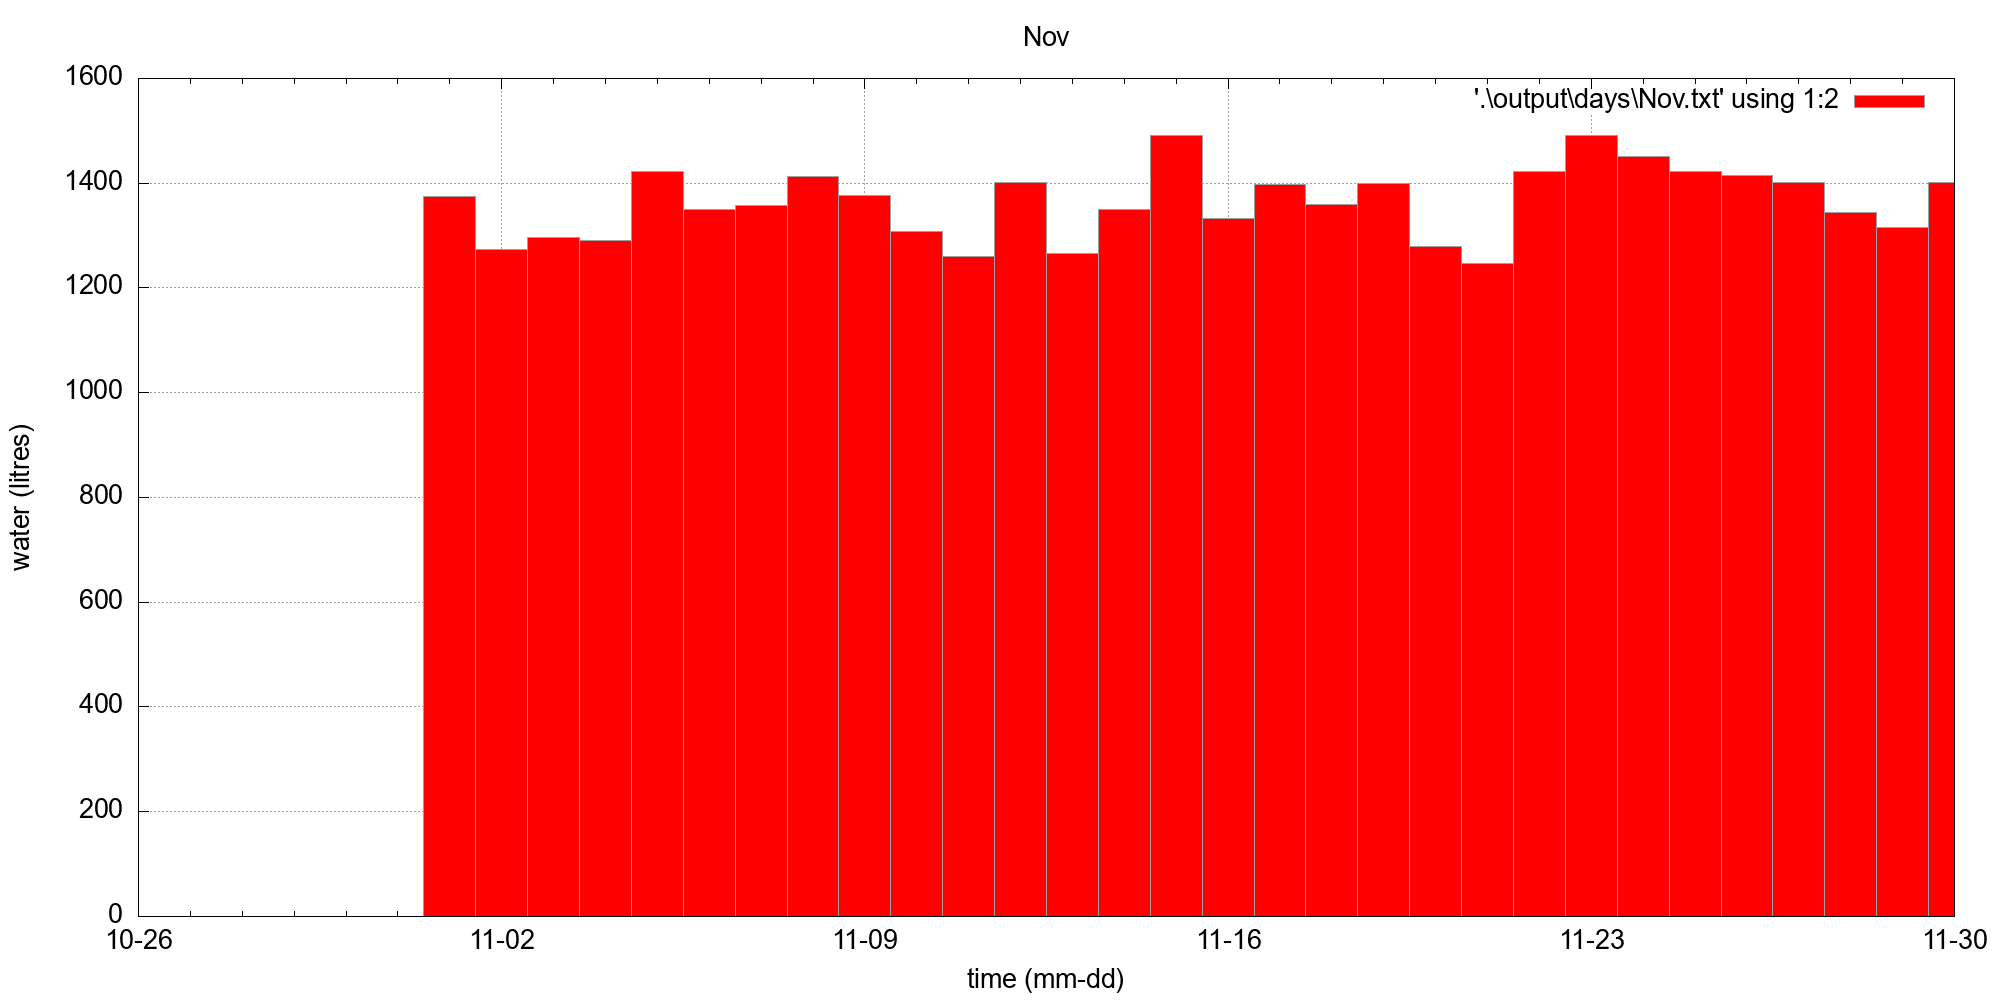
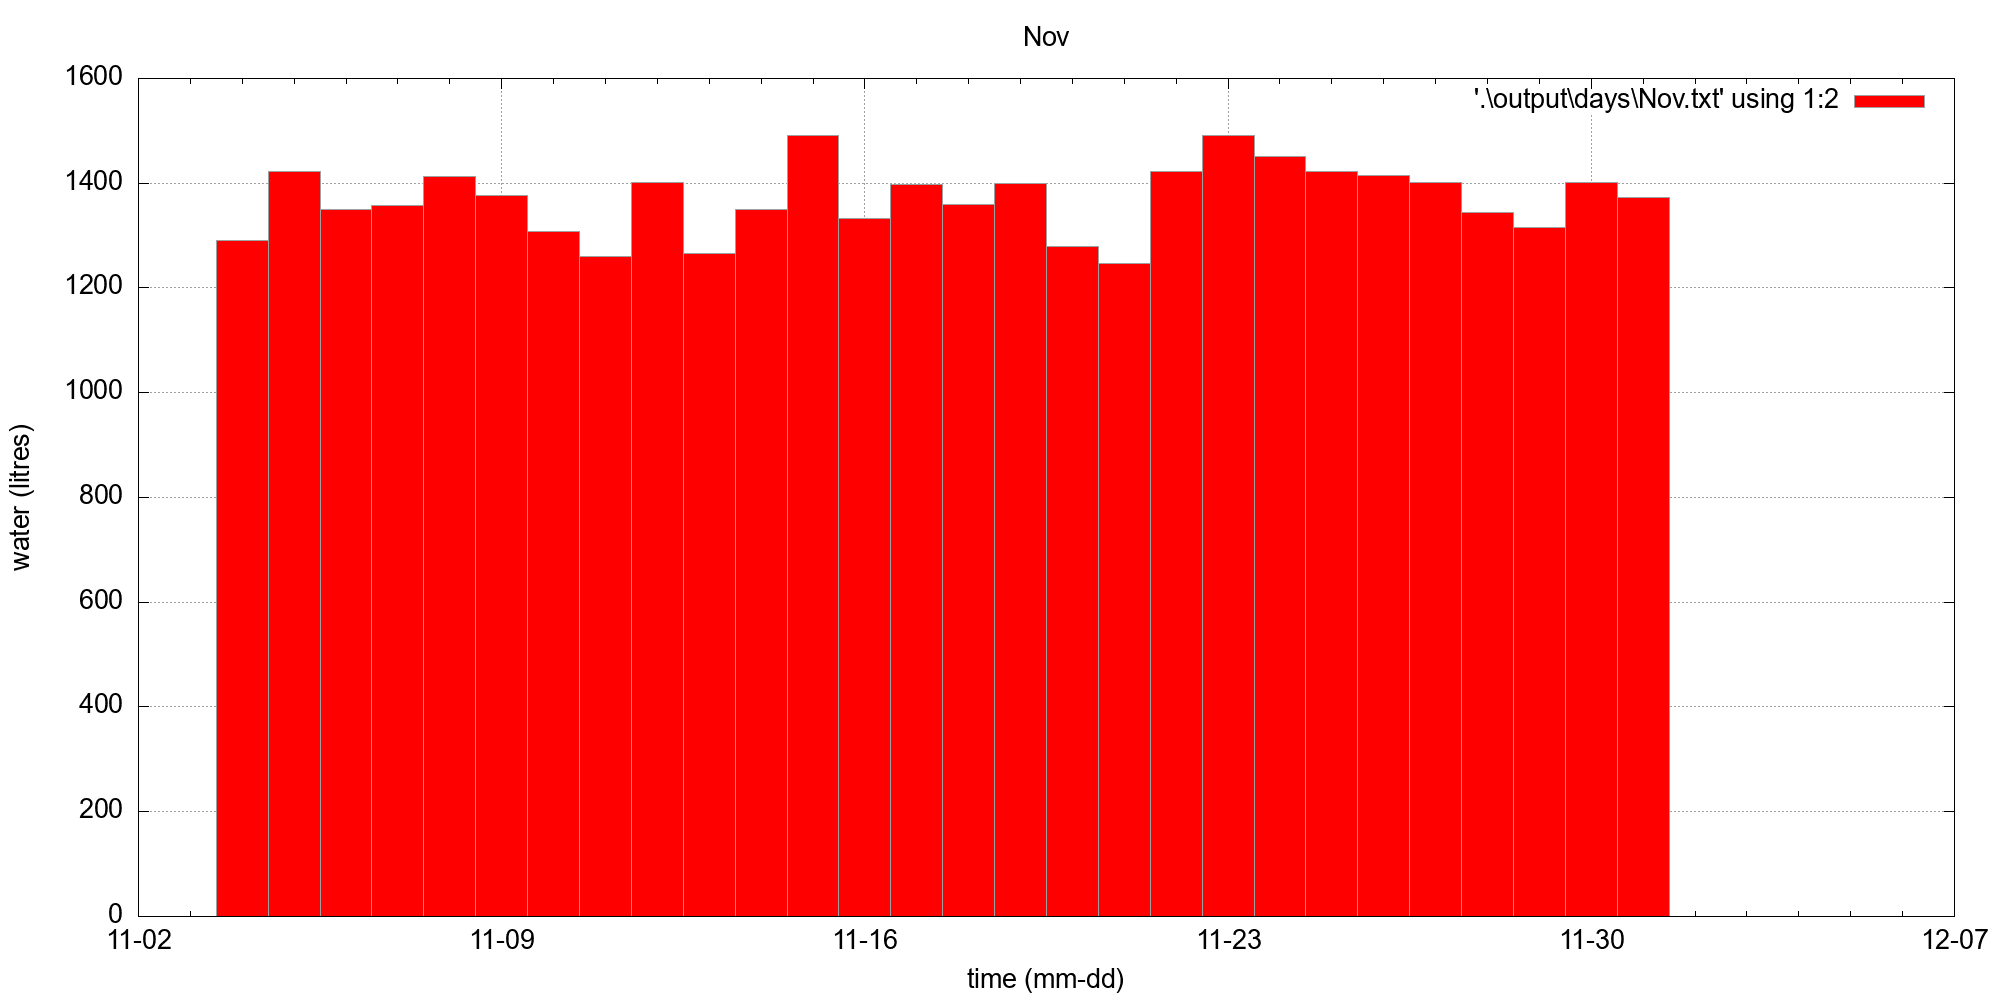
Moved output array to main function. Will help to visualize when the array is used and changed

diff --git a/main.c b/main.c
@@ -33,32 +33,31 @@ typedef struct {
         char time_fmt[10];
         char time_unit[10];
     } graph;
-} data;
+} output_data;
 
-data output[4] = {
-    {0, 0, SEC_PER_HOUR, "", "./output/hours/hours.txt", "hours", "\"\%H:\%M\"", "HH:MM"},
-    {0, 0, SEC_PER_DAY, "", "./output/days/days.txt", "days", "\"\%m-\%d\"", "mm-dd"},
-    {0, 0, SEC_PER_WEEK, "", "./output/weeks.txt", "weeks", "\"\%m-\%d\"", "mm-dd"},
-    {0, 0, SEC_PER_MONTH, "", "./output/month.txt", "month", "\"\%Y-\%m\"", "yyyy-mm"}
-};
-
-char month_names[12][3] = {"Jan", "Feb", "Mar", "Apr", "May", "Jun", "Jul", "Aug", "Sep", "Oct", "Nov", "Dec"};
+const char month_names[12][3] = {"Jan", "Feb", "Mar", "Apr", "May", "Jun", "Jul", "Aug", "Sep", "Oct", "Nov", "Dec"};
 
 int read_config(int* alarm_time);
 int get_length(FILE* fp);
 int get_data(FILE* fp, measurement measurements[], int length);
-void calc_sec_in_month(long int time_unix);
-void calc_start_of_time(measurement first, int results[3]);
+void calc_sec_in_month(long int time_unix, output_data *output_m);
+void calc_start_of_time(measurement first, output_data output[], int results[3]);
 int check_leap_year(int year);
-void output_to_files(measurement measurements[], int length, int start_times[]);
-void create_graph(int output_num);
-int water_per_x(measurement measurements[], int length, int output_num, long graph_start, int correct_for_dst);
+void output_to_files(measurement measurements[], int length, output_data output[], int start_times[]);
+void create_graph(output_data output[], int output_num);
+int water_per_x(measurement measurements[], int length, int output_num, long graph_start, int correct_for_dst, output_data output[]);
 int time_since_zero(measurement measurements[], int length, int alarm_time);
 void print_alarm(int time, int alarm_time);
 int format_time(long time_unix, char time_UTC[], struct tm *time_struct);
 int check_dst(long time_unix);
 
 int main(void) {
+    output_data output[4] = {
+        {0, 0, SEC_PER_HOUR, "", "", "hours", "\"\%H:\%M\"", "HH:MM"},
+        {0, 0, SEC_PER_DAY, "", "", "days", "\"\%m-\%d\"", "mm-dd"},
+        {0, 0, SEC_PER_WEEK, "", "./output/weeks.txt", "weeks", "\"\%m-\%d\"", "mm-dd"},
+        {0, 0, SEC_PER_MONTH, "", "./output/month.txt", "month", "\"\%Y-\%m\"", "yyyy-mm"}
+    };
     //Reading configuration
     int alarm_time;
     int start_times[4];
@@ -74,14 +73,15 @@ int main(void) {
     length = get_length(fp); // Finder linjeantal i fil
     measurement measurements[length]; // Laver en array til målinger 
     get_data(fp, measurements, length);
-    calc_start_of_time(measurements[0], start_times);
-    output_to_files(measurements, length, start_times);
+    calc_start_of_time(measurements[0], output, start_times);
+    output_to_files(measurements, length, output, start_times);
     time_since_zero(measurements, length, alarm_time);
     fclose(fp);
+    printf("Goodbye.");
     return 0;
 }
 
-void calc_start_of_time(measurement first, int results[4]) { // Beregner, hvor lang tid, der går, indtil ny hel time, dag og uge
+void calc_start_of_time(measurement first, output_data output[], int results[4]) { // Beregner, hvor lang tid, der går, indtil ny hel time, dag og uge
     printf("calc_start_of_time running ...\n");
     int m, h, d, w, mon;
     char time_UTC[26];
@@ -102,7 +102,7 @@ void calc_start_of_time(measurement first, int results[4]) { // Beregner, hvor l
     if(w < 0) {
         w += SEC_PER_WEEK;
     }
-    calc_sec_in_month(first.time_unix);
+    calc_sec_in_month(first.time_unix, &output[3]);
     mon = (output[3].calc.sec_per_unit - time_struct.tm_mday + 1) % output[3].calc.sec_per_unit * SEC_PER_DAY * output[3].calc.sec_per_unit - time_struct.tm_sec - time_struct.tm_min * SEC_PER_MIN - time_struct.tm_hour * SEC_PER_HOUR;
     if(mon < 0) {
         mon += output[3].calc.sec_per_unit;
@@ -164,14 +164,14 @@ int get_data(FILE* fp, measurement measurements[], int length) { //Indlæser dat
     } while (!feof(fp));
 }
 
-void output_to_files(measurement measurements[], int length, int start_times[]) { // Sender output til filer (hours.txt, days.txt etc.)
+void output_to_files(measurement measurements[], int length, output_data output[], int start_times[]) { // Sender output til filer (hours.txt, days.txt etc.)
     printf("output_to_files running ...\n");
     for(int i = 0; i < 4; i++) { // FOR HOURS, DAYS, WEEKS, MONTH
         output[i].calc.time_unix = measurements[0].time_unix + start_times[i];
         long graph_start;
         int fail;
         do {
-            calc_sec_in_month(output[i].calc.time_unix);
+            calc_sec_in_month(output[i].calc.time_unix, &output[3]);
             int is_dst_start = check_dst(output[i].calc.time_unix);
             int correct_for_dst = 0;
             if(i == 0) {
@@ -198,23 +198,23 @@ void output_to_files(measurement measurements[], int length, int start_times[]) 
                     correct_for_dst = is_dst_start - is_dst_now; // Will give 1 if DST switched on, -1 if DST switched off
                     is_dst_start = is_dst_now;
                 }
-                if(i) { // 
+                if(i) { 
                     output[i].calc.time_unix += correct_for_dst * SEC_PER_HOUR;
                     correct_for_dst = 0;
                 }
-                fail = water_per_x(measurements, length, i, graph_start, correct_for_dst);
+                fail = water_per_x(measurements, length, i, graph_start, correct_for_dst, output);
                 if(!fail) {
                     fprintf(outp, "%s; %d\n", output[i].txt.timestamp, output[i].calc.water_diff);
                     output[i].calc.time_unix += output[i].calc.sec_per_unit;
                 }
             } while (!fail);
-            create_graph(i);
+            create_graph(output, i);
             fclose(outp);
         } while(i < 2 && fail == 2);
-    }   
+    }
 }
 
-void create_graph(int output_num) {
+void create_graph(output_data output[], int output_num) {
     const int num_commands = 9;
     char* commandsForGnuplot[] = {
         "set datafile separator \";\"",
@@ -246,7 +246,7 @@ void create_graph(int output_num) {
     fprintf(gnuplotPipe, "plot '%s' using 1:2 with boxes linecolor rgb \"red\" \n", output[output_num].txt.file_path);
 }
 
-void calc_sec_in_month(long int time_unix) {
+void calc_sec_in_month(long int time_unix, output_data *output_m) {
     int days_in_each_month[12] = {31, 28, 31, 30, 31, 30, 31, 31, 30, 31, 30, 31};
     struct tm time_struct;
     char irr_time[26];
@@ -255,7 +255,7 @@ void calc_sec_in_month(long int time_unix) {
     if(time_struct.tm_mon == 1 && check_leap_year(time_struct.tm_year + 1900)) {
         days_in_month = 29; // Kontrollerer for skudår
     }
-    output[3].calc.sec_per_unit = SEC_PER_DAY * days_in_month;
+    output_m->calc.sec_per_unit = SEC_PER_DAY * days_in_month;
 }
 
 int check_leap_year(int year) {
@@ -265,7 +265,7 @@ int check_leap_year(int year) {
     return 0;
 }
 
-int water_per_x(measurement measurements[], int length, int output_num, long graph_start, int correct_for_dst) { // Beregner forbrug sidste time, day, uge eller 4 uger
+int water_per_x(measurement measurements[], int length, int output_num, long graph_start, int correct_for_dst, output_data output[]) { // Beregner forbrug sidste time, day, uge eller 4 uger
     double ave;
     int i,
         end_water,
@@ -275,7 +275,7 @@ int water_per_x(measurement measurements[], int length, int output_num, long gra
     start_time = output[output_num].calc.time_unix;
     end_time = start_time + output[output_num].calc.sec_per_unit;
     if(output_num == 3) {
-        calc_sec_in_month(start_time);
+        calc_sec_in_month(start_time, &output[3]);
     }
     char looking_for = 's';
     for(i = 0; i < length; i++) {

diff --git a/create_data.c b/create_data.c
@@ -14,7 +14,7 @@ int main(void) {
         i;
     srand(time(0));
     
-    for(new_time = 	1672527600; new_time < 	1704063599; new_time += 600) {
+    for(new_time = 	1665697169; new_time < 	1686692369; new_time += 600) {
         fprintf(fp, "%ld,", new_time);
         for(i = 10; i <= 10000000; i *= 10) {
             if(new_water < i) {
